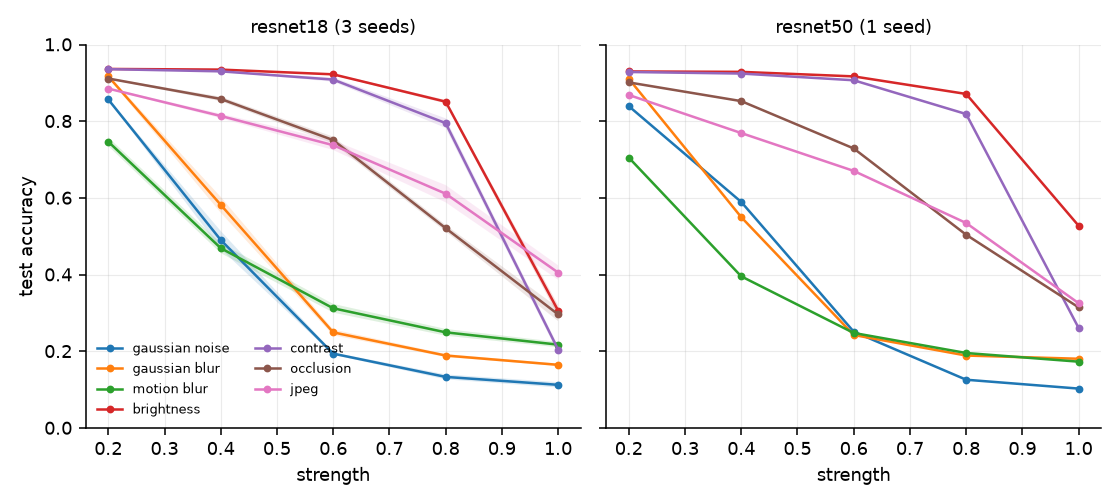
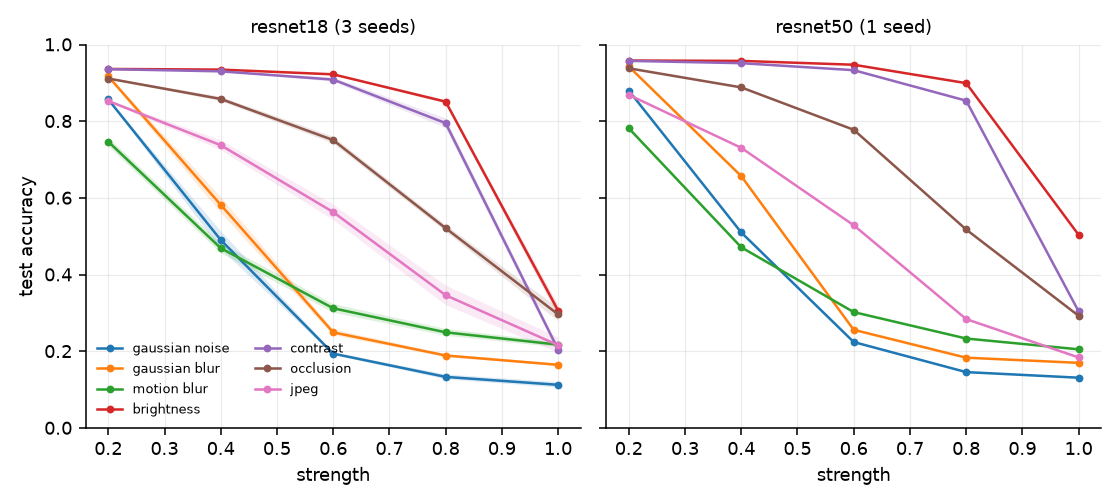
docs: refresh results with fully trained resnet50

diff --git a/README.md b/README.md
@@ -2,7 +2,7 @@
 
 视觉模型鲁棒性、置信度校准与选择性预测的评估平台。
 
-四个问题，CIFAR-10 test 集 10000 张，三个随机种子：
+四个问题，CIFAR-10 test 集 10000 张，ResNet18 三个种子 + ResNet50 一个：
 
 - RQ1 图像分布偏移下模型性能怎么变
 - RQ2 复合扰动与单一扰动的关系是不是乘性的
@@ -19,7 +19,7 @@
 
 | 模块 | 状态 |
 |---|---|
-| 数据 / 模型 / 训练 | ResNet18 × 3 种子（100 epoch），ResNet50 × 1（70 epoch） |
+| 数据 / 模型 / 训练 | ResNet18 × 3 种子、ResNet50 × 1，均 100 epoch |
 | 扰动（7 单一 + 4 复合） | 完成，参数逐档标定 |
 | 指标（Acc / ECE / MCE / Brier / AURC） | 完成 |
 | 实验 E1–E7 | 完成 |
@@ -30,16 +30,19 @@
 
 ### 基线
 
-| 模型 | 种子 | test accuracy |
-|---|---|---|
-| ResNet18 | 42 / 43 / 44 | **0.9369 ± 0.0008** |
+| 模型 | 种子 | test accuracy | ECE | AURC |
+|---|---|---|---|---|
+| ResNet18 | 42 / 43 / 44 | **0.9369 ± 0.0008** | 0.0354 | 0.0087 |
+| ResNet50 | 42 | **0.9581** | 0.0252 | 0.0035 |
 
-种子之间只差 0.08 个百分点，说明后面所有结论都不是靠某一次幸运初始化撑起来的。
-ECE 0.0354 ± 0.0012，AURC 0.0087。
+ResNet18 的三个种子只差 0.08 个百分点，说明后面所有结论都不是靠某一次幸运初始化撑起来的。
+ResNet50 高 2.1 个点，校准也更好——但只有一个种子，它的方差未知。
+
+训练配方一样（SGD、cosine、100 epoch），只有 ResNet50 慢得多：68 s/epoch，单卡跑完接近 2 小时。
 
 ### RQ1 单扰动：最狠的能掉到 0.11
 
-三种子平均，各点标准差都小于 0.005：
+三种子平均，绝大多数点的标准差小于 0.01，最大 0.026（jpeg s=0.8）：
 
 | 扰动 | s=0.2 | 0.4 | 0.6 | 0.8 | s=1.0 |
 |---|---|---|---|---|---|
@@ -49,9 +52,9 @@ ECE 0.0354 ± 0.0012，AURC 0.0087。
 | contrast | 0.936 | 0.930 | 0.909 | 0.795 | 0.205 |
 | occlusion | 0.911 | 0.858 | 0.751 | 0.521 | 0.296 |
 | brightness | 0.936 | 0.935 | 0.922 | 0.851 | 0.306 |
-| jpeg | 0.885 | 0.814 | 0.738 | 0.611 | 0.405 |
+| jpeg | 0.853 | 0.738 | 0.563 | 0.346 | 0.216 |
 
-干净 0.937。加性噪声和模糊最致命，JPEG 压到 quality=8 还剩 0.405。
+干净 0.937。s=1.0 时七种扰动落在 **0.11–0.31**，已经没有掉队的了。
 
 亮度、对比度是 **S 型**曲线：前几档几乎不动，最后一档才崩。不是标定没做好，
 是物理事实——把图暗到 62% 模型照样认得出，暗到 16% 就不行了。
@@ -62,28 +65,34 @@ ECE 0.0354 ± 0.0012，AURC 0.0087。
 
 motion blur 最陡，s=0.2 就吃掉 30% 的总损失；brightness 最缓。
 
-### 模型对比：ResNet50 不是全面更鲁棒
+### 模型对比：ResNet50 干净数据更强，但鲁棒性只赢一面
+
+两个模型的干净基线不同（0.937 vs 0.958），所以下表除了 s=1.0 的准确率，还给了
+**保持率**（除以各自的干净准确率）。绝对准确率混了基线差异进去，保持率才是纯粹的抗破坏能力。
+
+| 扰动 | R18 acc | R18 保持率 | R50 acc | R50 保持率 |
+|---|---|---|---|---|
+| brightness | 0.306 | 0.327 | **0.504** | **0.526** |
+| contrast | 0.205 | 0.219 | **0.304** | **0.318** |
+| gaussian_blur | 0.165 | 0.176 | **0.170** | **0.177** |
+| gaussian_noise | 0.113 | 0.120 | **0.131** | **0.137** |
+| occlusion | **0.296** | **0.316** | 0.293 | 0.305 |
+| motion_blur | **0.217** | **0.232** | 0.205 | 0.214 |
+| jpeg | **0.216** | **0.231** | 0.184 | 0.192 |
+| 平均 | | 0.232 | | **0.267** |
 
 ![model comparison](docs/figures/model_comparison.png)
+![retention](docs/figures/model_retention.png)
 
-s=1.0 下的准确率：
+4 赢 3 输，平均保持率高出 3.5 个百分点。但这个平均几乎全是 brightness 一个点撑起来的
+（0.526 vs 0.327）：去掉它之后是 0.216 对 0.224，基本打平。
 
-| 扰动 | ResNet18 (3 seeds) | ResNet50 (1 seed) |
-|---|---|---|
-| brightness | 0.306 | **0.528** |
-| contrast | 0.205 | **0.261** |
-| occlusion | 0.296 | **0.315** |
-| gaussian_blur | 0.165 | **0.181** |
-| gaussian_noise | **0.113** | 0.103 |
-| motion_blur | **0.217** | 0.173 |
-| jpeg | **0.405** | 0.326 |
+分得挺清楚：**对光度类扰动和遮挡，多出来的容量确实有用**；对破坏高频细节的三种
+（jpeg、motion blur、gaussian blur），ResNet50 一个都没赢，jpeg 还低了 4 个点。
+合理的解释是 CIFAR 的 32×32 图像里高频信息本来就少，ResNet50 那套更深的降采样在干净的
+大图上有效，在这里反而把仅剩的细节丢得更彻底——但这只是解释，没做消融验证。
 
-四个赢三个输。对光度和遮挡这类"整体变暗/局部缺失"的扰动，多出来的容量确实有用
-（brightness 差了 22 个百分点）；但对噪声、运动模糊和 JPEG 这种破坏高频细节的扰动，
-ResNet50 反而更脆。
-
-干净的基线也不一样（0.937 vs 0.929），所以严格来说该比相对保持率，但排序不会变。
-而且 ResNet50 只有一个种子、还没训完，这个结论只能算初步的。
+所以"更大的模型更鲁棒"这句话在这里不成立，得说清楚是对哪类扰动。
 
 ### RQ2 复合扰动：只有含噪声的才是非乘性的
 
@@ -119,13 +128,17 @@ ResNet50 反而更脆。
 | 条件 | ECE 原始 | ECE 校准后 |
 |---|---|---|
 | clean | 0.035 | **0.010** |
-| jpeg s=1.0 | 0.398 | 0.294 |
+| jpeg s=1.0 | 0.573 | 0.464 |
 | gaussian_blur s=1.0 | 0.584 | 0.456 |
 | gaussian_noise s=1.0 | **0.652** | **0.537** |
 
-干净数据修掉了 70% 的校准误差，扰动条件下只修掉 10–13 个百分点。
+干净数据修掉了 70% 的校准误差，扰动条件下只修掉 11–13 个百分点。
 **一个标量温度救不了分布偏移下的过度自信**——问题不是温度调错了，是置信度在这些输入上
 本来就失去了信息量。
+
+ResNet50 的校准整体更好一点（T = 1.61）：干净 ECE 0.025 → 0.007，噪声条件下 0.486 → 0.365，
+比 ResNet18 的 0.652 → 0.537 好一截。唯一反超的是 jpeg（0.612 → 0.481，比 ResNet18 差），
+和它在 jpeg 上准确率更低是同一件事。
 
 ### RQ4 选择性预测：救得了干净数据，救不了崩掉的输入
 
@@ -137,7 +150,7 @@ ResNet50 反而更脆。
 | brightness | 0.922 | 0.017 | 0.037 |
 | contrast | 0.909 | 0.023 | 0.047 |
 | occlusion | 0.751 | 0.164 | 0.205 |
-| jpeg | 0.738 | 0.180 | 0.220 |
+| jpeg | 0.563 | 0.373 | 0.405 |
 | motion_blur | 0.312 | 0.663 | 0.674 |
 | gaussian_blur | 0.249 | 0.734 | 0.742 |
 | gaussian_noise | 0.194 | 0.795 | 0.800 |
@@ -156,12 +169,17 @@ pip install torch torchvision --index-url https://download.pytorch.org/whl/cu128
 pip install -r requirements-dev.txt
 
 python scripts/download_data.py                                   # 下载并转 npz
-python scripts/train.py --config configs/resnet18.yaml --epochs 100 --seed 42
+python scripts/train.py --config configs/resnet18.yaml --seed 42  # 约 24 分钟
+python scripts/train.py --config configs/resnet50.yaml --seed 42  # 约 1 小时 55 分
 python scripts/run_experiment.py --model resnet18 --seed 42       # 全网格，约 4 分钟
-python scripts/aggregate.py                                       # 多种子汇总
+python scripts/aggregate.py                                       # 多种子汇总 + 对比图
 streamlit run app/main.py                                         # 六页界面
 pytest                                                            # 66 个测试
 ```
+
+训练中途断了不用从头来：每轮会写 `outputs/checkpoints/<model>_seed<k>_last.pt`（含优化器和
+调度器状态），加 `--resume` 接着跑。这不是为了好看——ResNet50 用 `num_workers=2` 跑时在第 74
+轮段错误崩过一次，换成 `--workers 0` 重训才跑满 100 轮。
 
 Windows 上 pypi 默认的 torch wheel 是 CPU 版，必须走 `download.pytorch.org`。
 
@@ -183,15 +201,18 @@ outputs/        结果 CSV、JSON、checkpoint，不进仓库
 
 ## 已知问题
 
-- **ResNet50 没训完。** 第 74 个 epoch 时段错误（Windows 上偶发，同一份代码 ResNet18
-  跑了三次都没事），用的是第 70 epoch 的权重（val 0.9366 / test 0.9289）。所以它比
-  ResNet18 低 0.8 个点，对比时得记住这一点。重训能到 0.94 左右，但没做。
-- `jpeg` 在 s=1.0 只掉到 0.405（ResNet18），其余六种在 0.11–0.31。32×32 的图本来就
-  比较抗压缩，这个天花板来自数据本身，不是标定没做到位。
+- **ResNet50 只有一个种子。** 三种子的方差在 ResNet18 上是 0.0008，小得可以忽略，但这不能
+  直接搬到 ResNet50 上——它的对比结论（尤其 jpeg、motion blur 那 1–2 个点的差距）都落在
+  单种子的噪声范围内，别当定论看。
+- `jpeg` 的 s=1.0 用 quality 2，准确率 0.216。再往下压也没有意义：quality 1 在 2000 张上
+  测出来 0.239，quality 2 是 0.240，已经到底了，32×32 的图再怎么压都有这么多信息活下来。
+  早期的表用 quality 8（剩 0.405），是七个扰动里唯一的离群点，后来改成现在这张表。
 - 温度缩放的 T 是在干净验证集上拟合的。按每个扰动条件各自拟合会更好看，
   但那是拿测试集调参，没做。
-- 强度档位按"人眼可辨"手工定，不是按等破坏力定。归一化图补了一部分，
+- 强度档位按"人眼可辨"手工定，不是按等破坏力定。归一化图和保持率补了一部分，
   但比不上 CIFAR-10-C 那种经过大量人工验证的 severity 表。
+- Windows 上 ResNet50 训练崩过一次（同一份代码 ResNet18 跑三次都没事，原因没查清）。
+  现在 `scripts/train.py` 每轮落一个带优化器状态的 `_last.pt`，`--resume` 能从崩溃处接着跑。
 
 ## 数据集
 

diff --git a/PROJECT_SPEC.md b/PROJECT_SPEC.md
@@ -95,10 +95,13 @@ ResNet18 reaches **0.9386 validation / 0.9363 test** (seed 42); at 40 epochs the
 same recipe stopped at 0.9164, because the learning rate was still near its peak
 when training ended.
 
-ResNet50 alone fell short of the recipe: it segfaulted at epoch 74 of 100 (an
-intermittent Windows fault; the same code ran three ResNet18 runs without
-trouble). The shipped checkpoint is epoch 70, validation 0.9366, test 0.9289.
-Every table labels it as such rather than pretending the run completed.
+ResNet50 needs the whole schedule too. An earlier run segfaulted at epoch 74 of
+100 (an intermittent Windows fault; the same code ran three ResNet18 runs
+without trouble), and the epoch-70 checkpoint it left behind scored 0.9289 —
+below ResNet18. Retrained to 100 epochs on the same recipe it reaches **0.9594
+validation / 0.9581 test**, which is what the final tables use. Training now
+writes an optimizer-state checkpoint every epoch and accepts `--resume`; the
+retrain also used `--workers 0` to dodge the crash.
 
 Checkpoints land in `outputs/checkpoints/<model>_seed<k>.pt` and are gitignored.
 A model is only used in experiments if its validation accuracy is recorded in
@@ -124,11 +127,17 @@ Strength is a **lookup table, not a formula.** Five anchors at
 | `brightness` | multiply by factor | 0.94 | 0.82 | 0.62 | 0.38 | 0.16 |
 | `contrast` | blend toward mean, factor | 0.90 | 0.74 | 0.55 | 0.33 | 0.12 |
 | `occlusion` | grey square, area fraction | 0.03 | 0.08 | 0.16 | 0.28 | 0.44 |
-| `jpeg` | quality | 85 | 60 | 35 | 18 | 8 |
+| `jpeg` | quality | 75 | 35 | 15 | 6 | 2 |
 
-Measured accuracy at `s = 1.0` (ResNet18): 0.10 – 0.30 for six of the seven.
-`jpeg` stops at 0.46 because 32×32 images survive compression better than
-larger ones — that ceiling is real, not a tuning failure.
+Measured accuracy at `s = 1.0` (ResNet18, three seeds): **0.11 – 0.31 for all
+seven**. `jpeg` bottoms out at 0.22 with quality 2, and that really is the floor:
+quality 1 gives 0.239 on a 2,000-image probe, i.e. further compression stops
+destroying information because there is nothing left to destroy at 32×32.
+
+An earlier table stopped at quality 8, which left `jpeg` at 0.405 while
+everything else sat near 0.2 — an outlier that made `jpeg` look harmless for no
+reason other than the anchor being set too gently. The five anchors were moved
+after measuring the curve, not guessed.
 
 **The linear formulas this replaced were broken.** The first version used
 `k = 2·round(1+5s)+1` for motion blur, which meant `s = 0.2` already dropped
@@ -231,11 +240,14 @@ launched by a script in `scripts/`, never by hand-editing state in a notebook.
 | E7 | Post-hoc temperature scaling | fit T on validation, apply to every test condition | <1 min |
 
 Time estimates assume a trained checkpoint already exists; they cover inference
-only. Training happens once per model (Stage 2). Measured on the 4060:
-**14.4 s/epoch, 9.9 min for 40 epochs** at batch 128 — about 3× faster than the
-first estimate, which assumed 32×32 would be slower than it is.
+only. Training happens once per model (Stage 2). Measured on the 4060 at batch
+128: **ResNet18 14.4 s/epoch (100 epochs = 24 min), ResNet50 68 s/epoch (100
+epochs = 1 h 55 min)**. The first estimate assumed 32×32 would be slower than it
+is; it also assumed ResNet50 would cost roughly the same as ResNet18, which it
+does not — 4.7× the epochs, 4.7× the time.
 
-The whole grid (56 conditions, 10,000 images each) ran in about 4 minutes.
+The whole grid (56 conditions, 10,000 images each) ran in about 4 minutes for
+ResNet18 and 7.5 minutes for ResNet50.
 `jpeg` dominates that: it round-trips every image through PIL one at a time,
 so it costs seconds where the tensor-space perturbations cost milliseconds.
 
@@ -349,7 +361,7 @@ to be downloaded.
 | CIFAR-10 test set gets used during development | only the validation split is touched before the final tables; each run record names its split |
 | Composite interaction claimed without evidence | E2 reports the per-strength gap only; "worse than the sum" needs the gap to hold across 5 strengths × 2 models |
 | Report overfitted to a lucky seed | final tables use seeds {42, 43, 44}; measured spread was 0.0008 accuracy, so the seed is not doing any work |
-| 8 GB VRAM | batch 128 at 32×32 stays far below the limit — ResNet18 trained for 40 epochs without pressure |
+| 8 GB VRAM | batch 128 at 32×32 stays far below the limit — both models trained 100 epochs without pressure |
 
 ## 11. Acceptance
 
